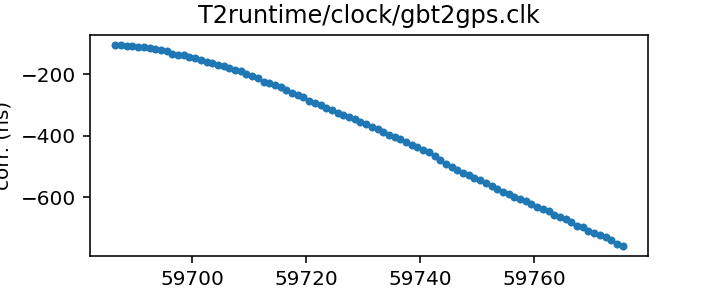
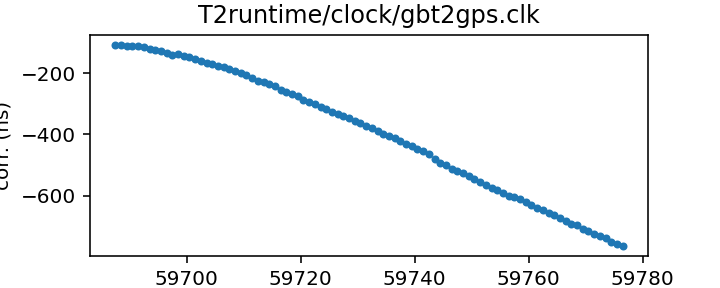
Routine gh-pages update from Github action Sun Jul 17 20:33:06 UTC 2022

diff --git a/status.md b/status.md
@@ -13,17 +13,17 @@ name of each clock file links to a page with more details.
 
 | Name | File | Corrections start | Corrections end | Last check date | Last check result 
 |:--- |:--- | --- | --- | --- |:--- 
-| [GPS to UTC](T2runtime/clock/gps2utc.clk.html) | `T2runtime/clock/gps2utc.clk` | 1993-01-01 MJD 48988.0 | 2022-06-29 MJD 59759.0 | 2022-07-16 | Unchanged 
-| [GPS to UTC (Combined Clock)](T2runtime/clock/gps2utc_cc.clk.html) | `T2runtime/clock/gps2utc_cc.clk` | 1993-01-01 MJD 48988.0 | 2022-06-29 MJD 59759.0 | 2022-07-16 | Unchanged 
-| [GPS to UTC (Corrected)](T2runtime/clock/gps2utc_c0p.clk.html) | `T2runtime/clock/gps2utc_c0p.clk` | 2010-12-29 MJD 55559.0 | 2022-06-29 MJD 59759.0 | 2022-07-16 | Unchanged 
-| [GBT](tempo/clock/time_gbt.dat.html) | `tempo/clock/time_gbt.dat` | 2000-12-31 MJD 51909.5 | 2022-07-15 MJD 59775.5 | 2022-07-16 | Updated 
-| [GBT (TEMPO2 converted from TEMPO)](T2runtime/clock/gbt2gps.clk.html) | `T2runtime/clock/gbt2gps.clk` | 2000-12-31 MJD 51909.5 | 2022-07-15 MJD 59775.5 | 2022-07-16 | Updated 
+| [GPS to UTC](T2runtime/clock/gps2utc.clk.html) | `T2runtime/clock/gps2utc.clk` | 1993-01-01 MJD 48988.0 | 2022-06-29 MJD 59759.0 | 2022-07-17 | Unchanged 
+| [GPS to UTC (Combined Clock)](T2runtime/clock/gps2utc_cc.clk.html) | `T2runtime/clock/gps2utc_cc.clk` | 1993-01-01 MJD 48988.0 | 2022-06-29 MJD 59759.0 | 2022-07-17 | Unchanged 
+| [GPS to UTC (Corrected)](T2runtime/clock/gps2utc_c0p.clk.html) | `T2runtime/clock/gps2utc_c0p.clk` | 2010-12-29 MJD 55559.0 | 2022-06-29 MJD 59759.0 | 2022-07-17 | Unchanged 
+| [GBT](tempo/clock/time_gbt.dat.html) | `tempo/clock/time_gbt.dat` | 2000-12-31 MJD 51909.5 | 2022-07-16 MJD 59776.5 | 2022-07-17 | Updated 
+| [GBT (TEMPO2 converted from TEMPO)](T2runtime/clock/gbt2gps.clk.html) | `T2runtime/clock/gbt2gps.clk` | 2000-12-31 MJD 51909.5 | 2022-07-16 MJD 59776.5 | 2022-07-17 | Updated 
 | [Jodrell Bank](T2runtime/clock/jb2gps.clk.html) | `T2runtime/clock/jb2gps.clk` | 2006-10-13 MJD 54021.4 | 2021-11-03 MJD 59521.0 | 2022-07-13 | Unchanged 
 | [Jodrell Bank Roach](T2runtime/clock/jbroach2jb.clk.html) | `T2runtime/clock/jbroach2jb.clk` | 2006-10-13 MJD 54021.4 | 2018-03-20 MJD 58197.6 | 2022-07-13 | Unchanged 
 | [Jodrell Bank DFB](T2runtime/clock/jbdfb2jb.clk.html) | `T2runtime/clock/jbdfb2jb.clk` | 2006-10-13 MJD 54021.4 | 2017-05-11 MJD 57884.0 | 2022-07-13 | Unchanged 
 | [Meerkat (observatory)](T2runtime/clock/mk2utc_observatory.clk.html) | `T2runtime/clock/mk2utc_observatory.clk` | 2019-01-01 MJD 58484.0 | 2022-06-29 MJD 59760.0 | 2022-07-11 | Updated 
-| [Leap seconds](tempo/clock/leap.sec.html) | `tempo/clock/leap.sec` | 1972-07-01 MJD 41499.0 | 2017-01-01 MJD 57754.0 | 2022-07-16 | Unchanged 
-| [UT1 table](tempo/clock/ut1.dat.html) | `tempo/clock/ut1.dat` | 1973-01-02 MJD 41684.0 | 2023-07-22 MJD 60147.0 | 2022-07-16 | Unchanged 
+| [Leap seconds](tempo/clock/leap.sec.html) | `tempo/clock/leap.sec` | 1972-07-01 MJD 41499.0 | 2017-01-01 MJD 57754.0 | 2022-07-17 | Unchanged 
+| [UT1 table](tempo/clock/ut1.dat.html) | `tempo/clock/ut1.dat` | 1973-01-02 MJD 41684.0 | 2023-07-22 MJD 60147.0 | 2022-07-17 | Unchanged 
 
 
 

diff --git a/T2runtime/clock/gbt2gps.clk.md b/T2runtime/clock/gbt2gps.clk.md
@@ -23,14 +23,13 @@ If questions arise about the conversion, contact Anne Archibald
 | Format | tempo2 |
 | Bogus last correction | False |
 | Clock file start | 2000-12-31 MJD 51909.5 |
-| Clock file end | 2022-07-15 MJD 59775.5 |
+| Clock file end | 2022-07-16 MJD 59776.5 |
 | Update interval (days) | 1 |
-| Last update attempt | 2022-07-16 |
+| Last update attempt | 2022-07-17 |
 | Last update result | Updated |
 
 Log entries from the last few update attempts:
 ```
-2022-07-07 20:33:58.840 - Updated
 2022-07-08 20:37:49.859 - Updated
 2022-07-09 20:31:55.637 - Updated
 2022-07-10 20:32:34.685 - Updated
@@ -40,12 +39,13 @@ Log entries from the last few update attempts:
 2022-07-14 20:34:53.973 - Updated
 2022-07-15 20:34:27.499 - Updated
 2022-07-16 20:32:14.990 - Updated
+2022-07-17 20:32:43.693 - Updated
 ```
 [Full log](https://raw.githubusercontent.com/ipta/pulsar-clock-corrections/main/log/T2runtime/clock/gbt2gps.clk.log)
 
 Leading comments from clock file:
 
-    # This file was automatically converted from tempo/clock/time_gbt.dat on 2022-07-16 20:32:14.928
+    # This file was automatically converted from tempo/clock/time_gbt.dat on 2022-07-17 20:32:43.620
 
 
 

diff --git a/tempo/clock/time_gbt.dat.md b/tempo/clock/time_gbt.dat.md
@@ -18,14 +18,13 @@ If questions arise, contact Ryan S. Lynch <rlynch@nrao.edu>.
 | Format | tempo |
 | Bogus last correction | False |
 | Clock file start | 2000-12-31 MJD 51909.5 |
-| Clock file end | 2022-07-15 MJD 59775.5 |
+| Clock file end | 2022-07-16 MJD 59776.5 |
 | Update interval (days) | 1 |
-| Last update attempt | 2022-07-16 |
+| Last update attempt | 2022-07-17 |
 | Last update result | Updated |
 
 Log entries from the last few update attempts:
 ```
-2022-07-07 20:33:58.756 - Updated
 2022-07-08 20:37:49.771 - Updated
 2022-07-09 20:31:55.563 - Updated
 2022-07-10 20:32:34.614 - Updated
@@ -35,6 +34,7 @@ Log entries from the last few update attempts:
 2022-07-14 20:34:53.886 - Updated
 2022-07-15 20:34:27.404 - Updated
 2022-07-16 20:32:14.926 - Updated
+2022-07-17 20:32:43.619 - Updated
 ```
 [Full log](https://raw.githubusercontent.com/ipta/pulsar-clock-corrections/main/log/tempo/clock/time_gbt.dat.log)
 

diff --git a/T2runtime/clock/gps2utc_c0p.clk.md b/T2runtime/clock/gps2utc_c0p.clk.md
@@ -30,12 +30,11 @@ about the BIPM's published corrections, contact <tai@bipm.org>.
 | Clock file start | 2010-12-29 MJD 55559.0 |
 | Clock file end | 2022-06-29 MJD 59759.0 |
 | Update interval (days) | 1 |
-| Last update attempt | 2022-07-16 |
+| Last update attempt | 2022-07-17 |
 | Last update result | Unchanged |
 
 Log entries from the last few update attempts:
 ```
-2022-07-07 20:33:57.655 - Unchanged
 2022-07-08 20:37:48.988 - Unchanged
 2022-07-09 20:31:55.140 - Unchanged
 2022-07-10 20:32:34.196 - Unchanged
@@ -45,6 +44,7 @@ Log entries from the last few update attempts:
 2022-07-14 20:34:53.139 - Unchanged
 2022-07-15 20:34:26.295 - Unchanged
 2022-07-16 20:32:14.434 - Unchanged
+2022-07-17 20:32:42.856 - Unchanged
 ```
 [Full log](https://raw.githubusercontent.com/ipta/pulsar-clock-corrections/main/log/T2runtime/clock/gps2utc_c0p.clk.log)
 

diff --git a/T2runtime/clock/gps2utc_cc.clk.md b/T2runtime/clock/gps2utc_cc.clk.md
@@ -29,12 +29,11 @@ about the BIPM's published corrections, contact <tai@bipm.org>.
 | Clock file start | 1993-01-01 MJD 48988.0 |
 | Clock file end | 2022-06-29 MJD 59759.0 |
 | Update interval (days) | 1 |
-| Last update attempt | 2022-07-16 |
+| Last update attempt | 2022-07-17 |
 | Last update result | Unchanged |
 
 Log entries from the last few update attempts:
 ```
-2022-07-07 20:33:57.642 - Unchanged
 2022-07-08 20:37:48.975 - Unchanged
 2022-07-09 20:31:55.128 - Unchanged
 2022-07-10 20:32:34.185 - Unchanged
@@ -44,6 +43,7 @@ Log entries from the last few update attempts:
 2022-07-14 20:34:53.122 - Unchanged
 2022-07-15 20:34:26.281 - Unchanged
 2022-07-16 20:32:14.423 - Unchanged
+2022-07-17 20:32:42.845 - Unchanged
 ```
 [Full log](https://raw.githubusercontent.com/ipta/pulsar-clock-corrections/main/log/T2runtime/clock/gps2utc_cc.clk.log)
 

diff --git a/T2runtime/clock/gps2utc.clk.md b/T2runtime/clock/gps2utc.clk.md
@@ -32,12 +32,11 @@ about the BIPM's published corrections, contact <tai@bipm.org>.
 | Clock file start | 1993-01-01 MJD 48988.0 |
 | Clock file end | 2022-06-29 MJD 59759.0 |
 | Update interval (days) | 1 |
-| Last update attempt | 2022-07-16 |
+| Last update attempt | 2022-07-17 |
 | Last update result | Unchanged |
 
 Log entries from the last few update attempts:
 ```
-2022-07-07 20:33:57.604 - Unchanged
 2022-07-08 20:37:48.934 - Unchanged
 2022-07-09 20:31:55.094 - Unchanged
 2022-07-10 20:32:34.152 - Unchanged
@@ -47,6 +46,7 @@ Log entries from the last few update attempts:
 2022-07-14 20:34:53.077 - Unchanged
 2022-07-15 20:34:26.237 - Unchanged
 2022-07-16 20:32:14.390 - Unchanged
+2022-07-17 20:32:42.812 - Unchanged
 ```
 [Full log](https://raw.githubusercontent.com/ipta/pulsar-clock-corrections/main/log/T2runtime/clock/gps2utc.clk.log)
 

diff --git a/tempo/clock/leap.sec.md b/tempo/clock/leap.sec.md
@@ -21,12 +21,11 @@ If there are any questions, contact Anne Archibald
 | File start | 1972-07-01 MJD 41499.0 |
 | File end | 2017-01-01 MJD 57754.0 |
 | Update interval (days) | 0 |
-| Last update attempt | 2022-07-16 |
+| Last update attempt | 2022-07-17 |
 | Last update result | Unchanged |
 
 Log entries from the last few update attempts:
 ```
-2022-07-07 20:34:07.934 - Unchanged
 2022-07-08 20:37:49.908 - Unchanged
 2022-07-09 20:31:55.671 - Unchanged
 2022-07-10 20:32:34.718 - Unchanged
@@ -36,5 +35,6 @@ Log entries from the last few update attempts:
 2022-07-14 20:34:57.141 - Unchanged
 2022-07-15 20:34:27.548 - Unchanged
 2022-07-16 20:32:15.021 - Unchanged
+2022-07-17 20:32:43.723 - Unchanged
 ```
 [Full log](https://raw.githubusercontent.com/ipta/pulsar-clock-corrections/main/log/tempo/clock/leap.sec.log)

diff --git a/tempo/clock/ut1.dat.md b/tempo/clock/ut1.dat.md
@@ -30,12 +30,11 @@ If there are any questions, contact Anne Archibald
 | File start | 1973-01-02 MJD 41684.0 |
 | File end | 2023-07-22 MJD 60147.0 |
 | Update interval (days) | 0 |
-| Last update attempt | 2022-07-16 |
+| Last update attempt | 2022-07-17 |
 | Last update result | Unchanged |
 
 Log entries from the last few update attempts:
 ```
-2022-07-07 20:34:19.954 - Unchanged
 2022-07-08 20:38:00.250 - Updated
 2022-07-09 20:32:03.620 - Unchanged
 2022-07-10 20:32:42.361 - Unchanged
@@ -45,5 +44,6 @@ Log entries from the last few update attempts:
 2022-07-14 20:35:07.829 - Updated
 2022-07-15 20:34:39.983 - Unchanged
 2022-07-16 20:32:22.926 - Unchanged
+2022-07-17 20:32:53.558 - Unchanged
 ```
 [Full log](https://raw.githubusercontent.com/ipta/pulsar-clock-corrections/main/log/tempo/clock/ut1.dat.log)
